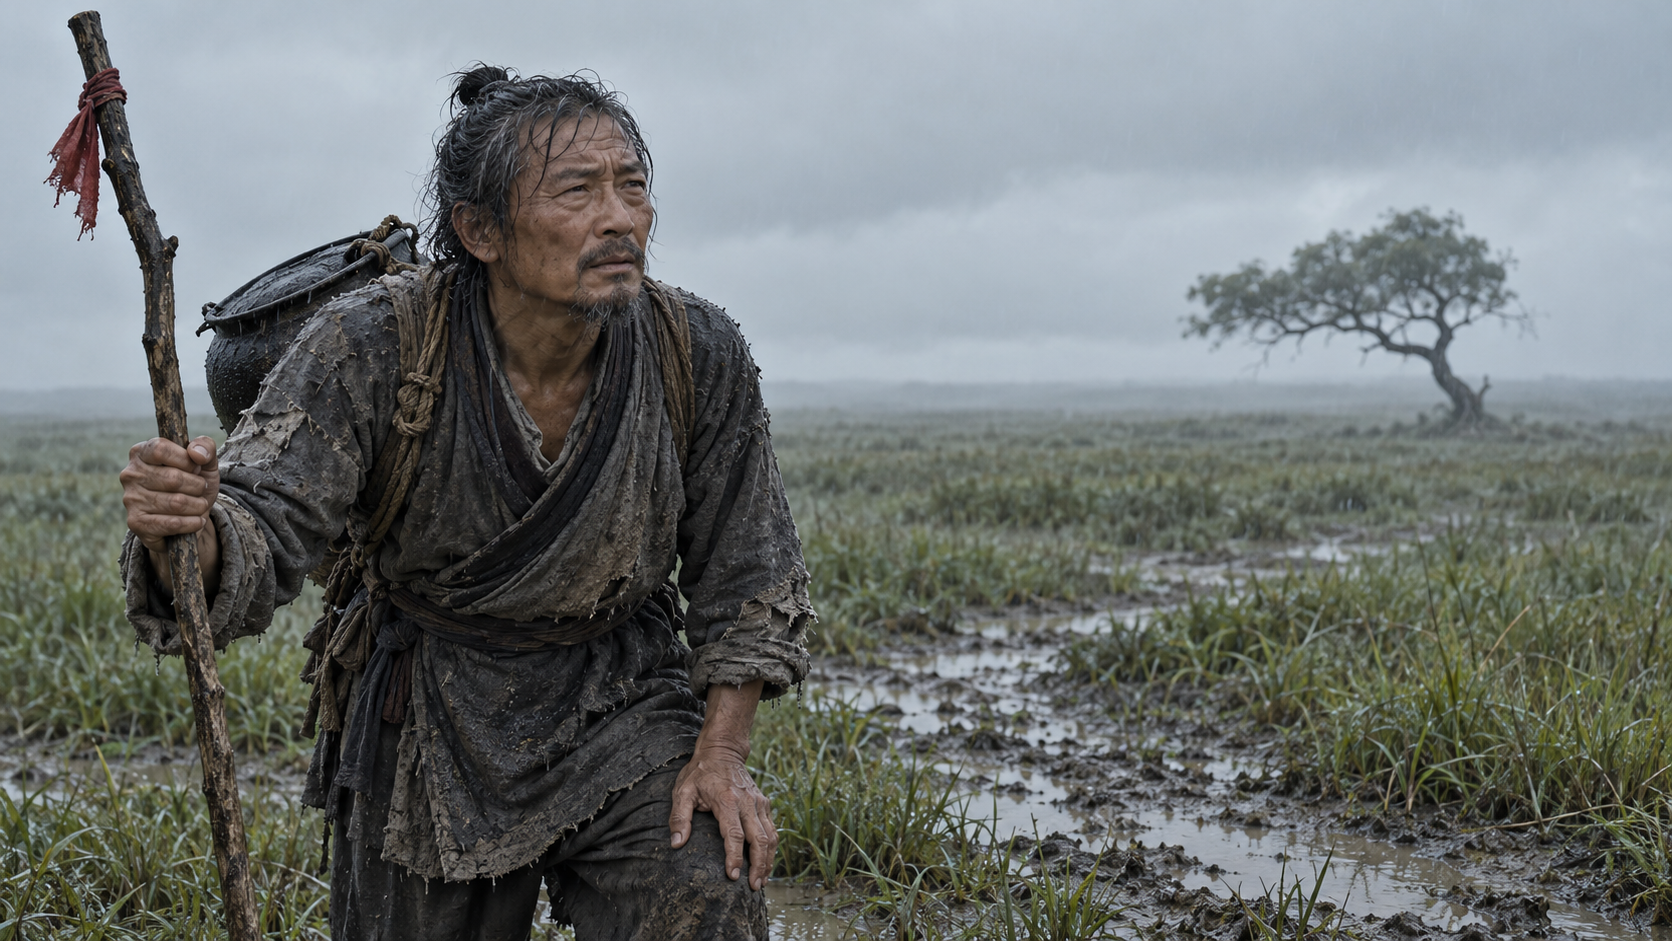
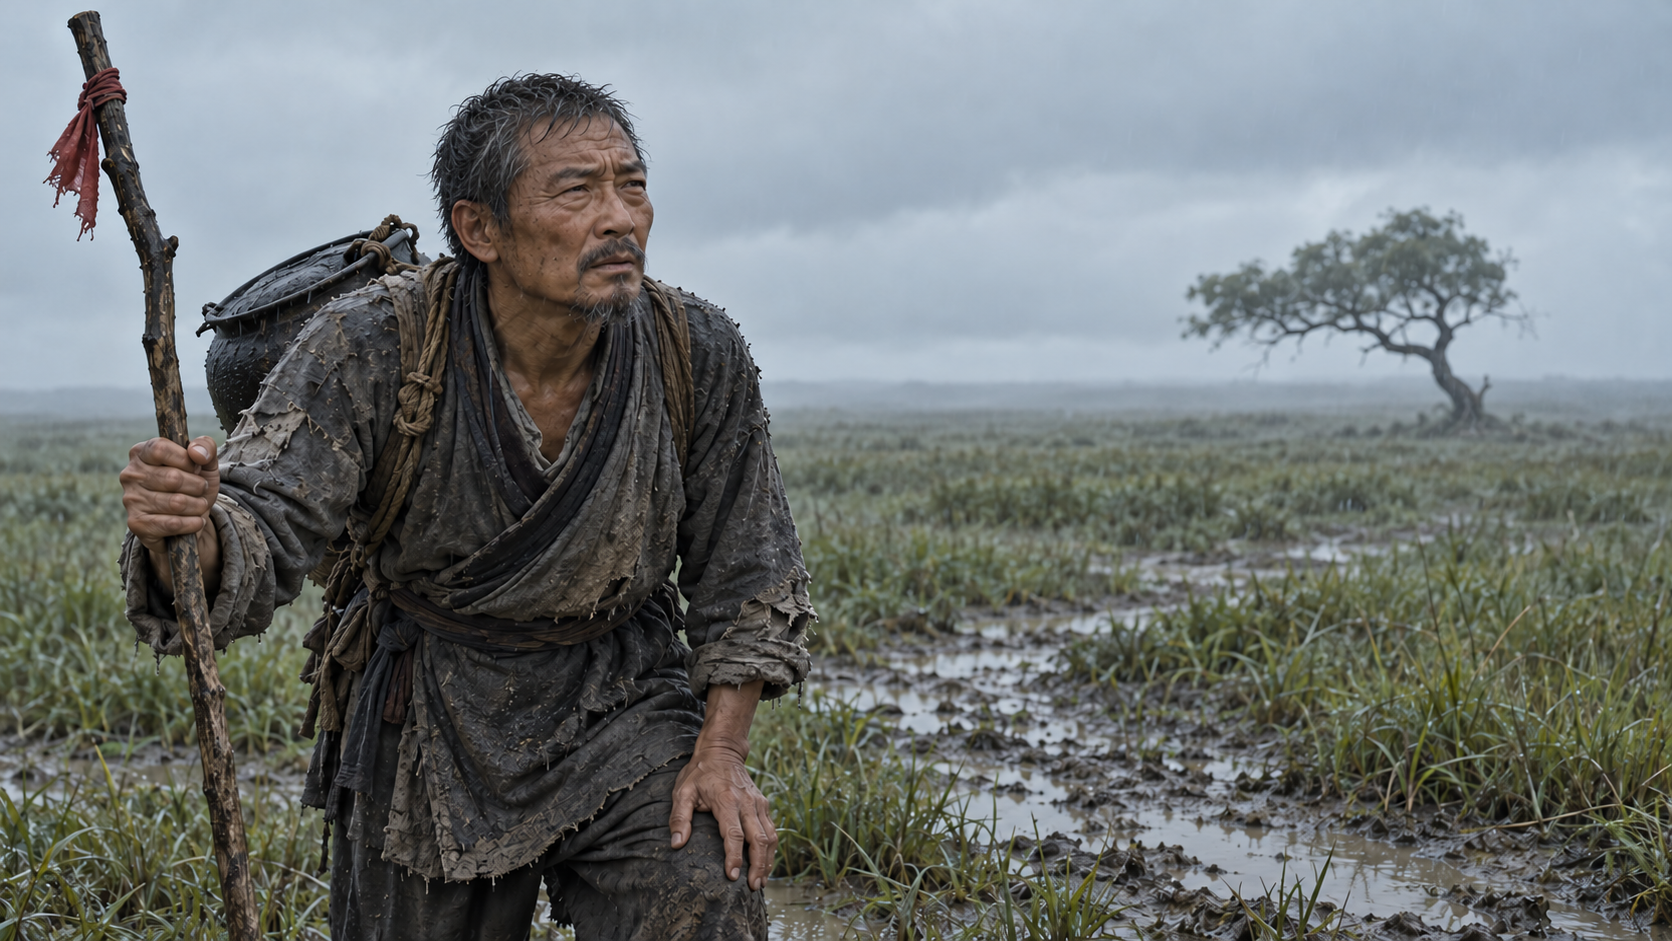
Correct squad leader hairstyle in the lookout scene

diff --git a/js/image-assets.js b/js/image-assets.js
@@ -1,5 +1,5 @@
 // Generated by tools/optimize-images.py; do not edit.
-export const IMAGE_RELEASE = "d577d2fe819c";
+export const IMAGE_RELEASE = "6c93881367ec";
 export const IMAGE_ASSETS = {
   "assets/stills/approach-last-signpost.png": {
     "originalBytes": 2578430,
@@ -272,13 +272,13 @@ export const IMAGE_ASSETS = {
     "smallBytes": 111306
   },
   "assets/stills/cook-looks-ahead.png": {
-    "originalBytes": 2633765,
+    "originalBytes": 2446325,
     "width": 1672,
     "height": 941,
-    "full": "assets/optimized/cook-looks-ahead-full-11a4aa2b160f.webp",
-    "fullBytes": 212450,
-    "small": "assets/optimized/cook-looks-ahead-small-b7f89580550f.webp",
-    "smallBytes": 95868
+    "full": "assets/optimized/cook-looks-ahead-full-605d33a9cf21.webp",
+    "fullBytes": 189482,
+    "small": "assets/optimized/cook-looks-ahead-small-814352cb82f1.webp",
+    "smallBytes": 94014
   },
   "assets/stills/cook-sits-at-last-signpost.png": {
     "originalBytes": 2664079,

diff --git a/js/main.js b/js/main.js
@@ -1,9 +1,9 @@
 // 界面接线：标题页、史料卡、菜单、结尾报告。
-import { StoryEngine } from "./engine.js?v=20261023-hair1";
+import { StoryEngine } from "./engine.js?v=20261023-hair2";
 import { Save } from "./save.js";
 import { initAsk } from "./ask.js?v=20261023-askchoice";
 import { buildReflectionText } from "./reflection-report.js";
-import { renderReflectionReport } from "./reflection-view.js?v=20261023-hair1";
+import { renderReflectionReport } from "./reflection-view.js?v=20261023-hair2";
 
 const $ = (id) => document.getElementById(id);
 const screens = ["screenTitle", "screenLore", "screenReplay", "screenMenu", "screenAbout", "screenReport", "screenTalk", "screenError"];

diff --git a/js/engine.js b/js/engine.js
@@ -6,7 +6,7 @@ import { AudioManager } from "./audio.js";
 import { Save } from "./save.js";
 import { frameOf, guttersFromProfiles, panelBoxes } from "./sheet-geometry.js";
 import { buildReflectionReport } from "./reflection-report.js";
-import { imageSource, visualLayout } from "./visual-delivery.js?v=20261023-hair1";
+import { imageSource, visualLayout } from "./visual-delivery.js?v=20261023-hair2";
 
 const $ = (id) => document.getElementById(id);
 const PLAYER = "__player__";

diff --git a/index.html b/index.html
@@ -202,7 +202,7 @@
   <div class="chapter-card" id="chapterCard" hidden><span id="chapterCardText"></span></div>
 
   <script src="js/site-config.js?v=20261021-network-check"></script>
-  <script type="module" src="js/main.js?v=20261023-hair1"></script>
+  <script type="module" src="js/main.js?v=20261023-hair2"></script>
   <script src="js/landscape.js?v=20261020-1"></script>
 </body>
 </html>

diff --git a/js/reflection-view.js b/js/reflection-view.js
@@ -1,4 +1,4 @@
-import { imageSource } from "./visual-delivery.js?v=20261023-hair1";
+import { imageSource } from "./visual-delivery.js?v=20261023-hair2";
 // 全部原话用 textContent 呈现，玩家输入不会成为页面标记。
 function reflectionNode(tag, className, text) {
   const node = document.createElement(tag);

diff --git a/js/visual-delivery.js b/js/visual-delivery.js
@@ -1,4 +1,4 @@
-import { IMAGE_ASSETS } from "./image-assets.js?v=20261023-hair1";
+import { IMAGE_ASSETS } from "./image-assets.js?v=20261023-hair2";
 
 // Canonical PNG paths remain in the story/save. Only the delivered file varies.
 export function imageSource(src, { width = 1440, dpr = 1 } = {}, assets = IMAGE_ASSETS) {

diff --git a/docs/IMAGE_HAIR_FIX.md b/docs/IMAGE_HAIR_FIX.md
@@ -8,4 +8,16 @@
 
 ## 实际编辑提示词
 
+### 第三幕补充修正
+
+- 根据用户截图与“看到那棵歪树没有”台词定位到 `assets/stills/cook-looks-ahead.png`，此图仍有发髻，属于上一轮漏改的另一镜头。
+- 使用内置 imagegen 编辑，目视确认改为自然黑灰色短发；人物面貌、神情、背锅、红布探路棍、远处歪树与草地构图保留。
+- 原图备份：`D:/讯飞杯/output/hair-fix-2026-10-23/cook-looks-ahead-before.png`。新版模块参数：`20261023-hair2`。
+
+编辑提示词：
+
+Use case: precise-object-edit. Edit the provided original historical film still, not a website screenshot. Make ONE localized correction to the elderly Chinese MALE squad leader's hairstyle: remove the topknot/bun at the top-back of his head, any braid or tied hair, and the long strands around the ears, forehead and nape. Replace with practical short, damp, untied, uneven black-and-gray hair about 2–4 cm long, appropriate to an older male Red Army soldier in 1935. Natural short hairline around ears and nape. Retain his exact recognizable face, age, wrinkles, beard, expression, gaze to the right, head angle, ears, skin and pose. Preserve the walking stick with red cloth on the left, his hands, muddy tattered gray uniform, ropes and pot on his back, distant leaning tree on right, wet marsh, mountains, fog and sky. Keep the original 1672x941 wide framing and all composition, lighting, subdued gray-green/mud-brown palette and photographic texture. Only visible alteration should be the haircut. No bun, braid, ponytail, long locks, hair accessories, new hat, new text or watermark.
+
+### 第四幕原修正
+
 Use case: precise-object-edit. Image 1 is the edit target, a photorealistic 16:9 historical film still for a 1935 Chinese Red Army grassland story. Make ONE tightly localized correction to the elderly MALE squad leader seated with his back to the viewer in the upper center. Remove his topknot/hair bun and all tied-up or long nape hair, replacing ONLY his hair with practical short, damp, untied, uneven black-and-gray hair, about 2–4 cm long, consistent with an exhausted older Chinese male Red Army soldier. Natural short hairline at the back of his neck. No braid, ponytail, bun, shaved decorative style, hair accessory or new hat. Preserve the exact back-facing pose, male identity, neck, ears, head angle, body, muddy gray uniform, seated position, red-cloth wooden marker on his left, black pot on his right, marsh, mountains, cloudy sky, muddy path, foreground first-person left hand and straw shoe. Preserve all composition, physical contact, lighting, low-saturation gray-green/mud-brown colors and image texture outside the small hair region. Do not add/remove/move any person, prop or scenery. Keep the original wide 16:9 framing. The only visible change should be a believable short male haircut instead of the topknot. No text or watermark.
